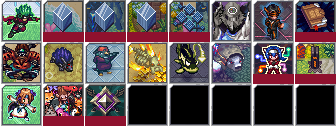
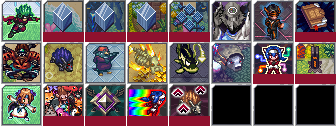
added some trophies

Changed region(s): [[0.3571, 0.6667, 0.625, 1.0]]

diff --git a/src/code/menu/shop.ts b/src/code/menu/shop.ts
@@ -16,6 +16,11 @@ export default function () {
 
         addCrystalCoins(value) {
             ig.vars.add("dlctweaks.crystals", value)
+            sc.stats.addMap("player", "currency-crystals", value);
+        },
+
+        subCrystalCoins(value) {
+            ig.vars.sub("dlctweaks.crystals", value)
         }
     })
 
@@ -73,7 +78,7 @@ export default function () {
     sc.ShopMenu.inject({
         buyItems() {
             if (sc.menu.shopGemCoinMode) {
-                sc.model.player.addCrystalCoins(-sc.menu.getTotalCost())
+                sc.model.player.subCrystalCoins(-sc.menu.getTotalCost())
 
                 let value = 0;
                 sc.menu.shopCart.forEach(element => {

diff --git a/src/code/menu/trophy-icons.ts b/src/code/menu/trophy-icons.ts
@@ -145,6 +145,22 @@ export default function () {
             hidden: false,
             sheet: "dlc-tweaks",
             customIndex: 18,
+        },
+
+        EL_ALL_AURAS: {
+            index: -1,
+            cat: "GENERAL",
+            hidden: false,
+            sheet: "dlc-tweaks",
+            customIndex: 19,
+        },
+
+        EL_BOOSTERS: {
+            index: -1,
+            cat: "COMBAT",
+            hidden: false,
+            sheet: "dlc-tweaks",
+            customIndex: 20,
         }
     })
 

diff --git a/src/code/player/combat-art.ts b/src/code/player/combat-art.ts
@@ -38,7 +38,6 @@ export default function () {
                 && this.params.getSp() < getSnowgraveCost()
                 && actionKey.actionKey == "ATTACK_SPECIAL"
             ) {
-                console.log("snowgrave is equipped, not enough sp")
                 maxCharge = 2;
             }
             return maxCharge;

diff --git a/src/headers/els-mod.d.ts b/src/headers/els-mod.d.ts
@@ -167,6 +167,7 @@ declare global {
         interface PlayerModel {
             getCrystalCoins(): number;
             addCrystalCoins(amount: number): void;
+            subCrystalCoins(amount: number): void;
             setCrystalCoins(amount: number): void;
         }
         interface CombatParams {
